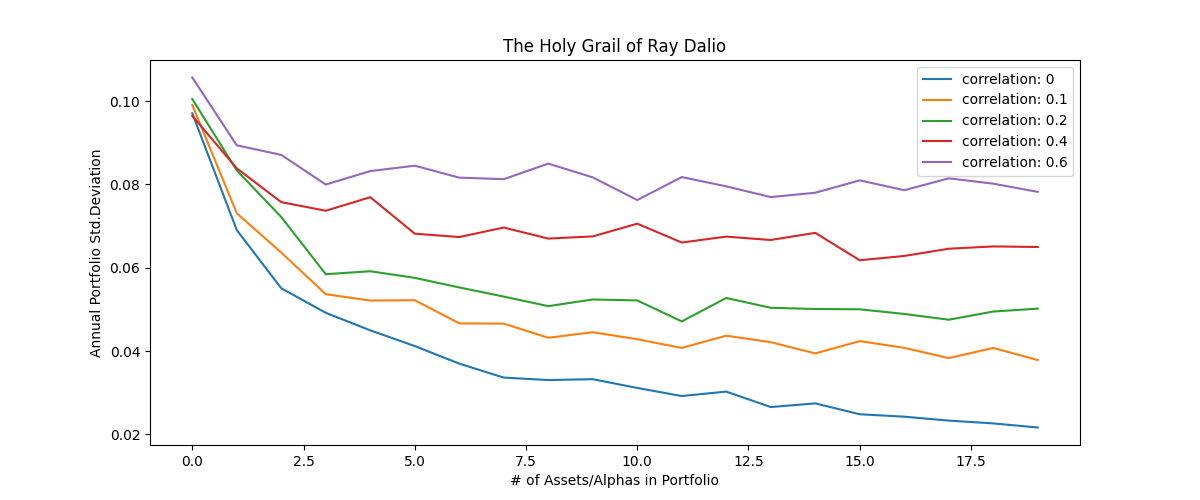
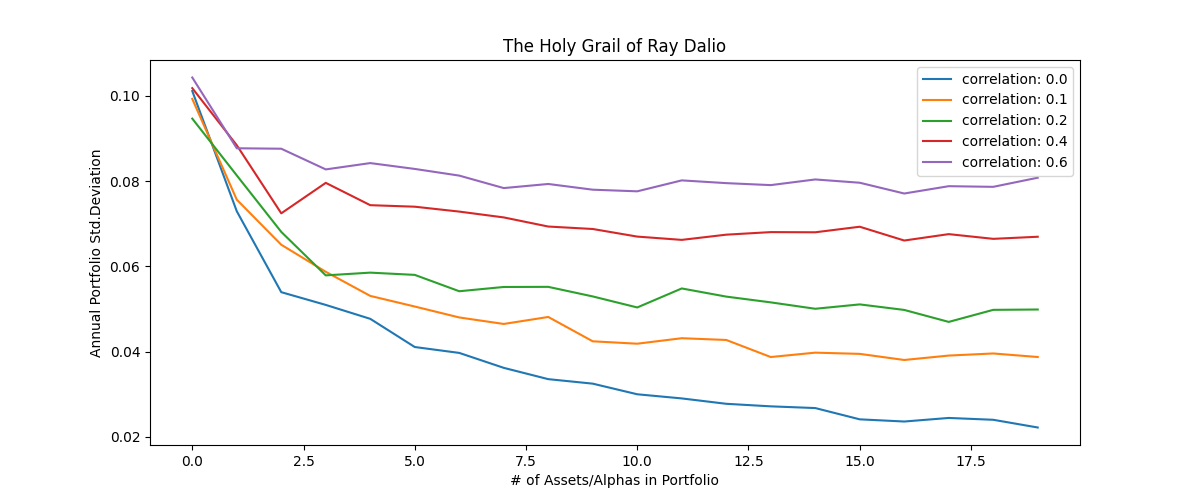
<training> version 2 of simulator

diff --git a/simulator.py b/simulator.py
@@ -14,29 +14,35 @@ def corr2cov(p: np.ndarray, s: np.ndarray) -> np.ndarray:
     return d @ p @ d
 
 
-def plotter(dataframe, show_chart=True):
-    plt.figure(figsize=(12, 5))
+def plotter(dataframe, risk=0.1, n_assets=21, show_chart=True):
+    plt.figure(figsize=(15, 5))
     plt.plot(dataframe)
     plt.title("The Holy Grail of Ray Dalio")
     plt.legend(dataframe.columns)
     plt.xlabel("# of Assets/Alphas in Portfolio")
     plt.ylabel("Annual Portfolio Std.Deviation")
+    plt.xticks(list(range(0, n_assets-1)))
+    #plt.yticks(np.arange(risk, 0, -0.1))
+    print(f"showchart: {show_chart}")
     if show_chart:
         plt.show()
     else:
         plt.savefig("simulator-holy-grail-result.png")
 
+def build_fraction_list(correlations):
+    divisor = 100
+    return [(corr/divisor) for corr in correlations]
 
-def simulator():
-    print(f"Simulator of Ray Dalio 'Holy Grail' built by: {AUTHOR}")
+
+def transform_input_correlations(correlations_str):
+    return [int(item) for item in correlations_str.split(",")]
+
+
+def simulator(correlations, param_risk=.10):
+    param_means = param_stddev = param_risk
     df = pd.DataFrame()
-    mean_assets = .1
-    stddev_assets = .1
-
-    correlation_test_list = [
-        .60, .40, .20, .10, 0
-    ]
-    for correlation in correlation_test_list:
+    results = []
+    for correlation in build_fraction_list(correlations):
         result_list = []
         for num_assets in range(1, 21):
             corr_matrix = np.zeros((num_assets, num_assets), float)
@@ -44,9 +50,9 @@ def simulator():
             np.fill_diagonal(corr_matrix, 1)
 
             stddev = np.empty(num_assets, dtype='float')
-            stddev.fill(stddev_assets)
+            stddev.fill(param_stddev)
             mean = np.empty(num_assets, dtype='float')
-            mean.fill(mean_assets)
+            mean.fill(param_means)
 
             cov = corr2cov(corr_matrix, stddev)
 
@@ -60,9 +66,12 @@ def simulator():
             portfolio_risk = np.std(portfolio_returns)
 
             result_list.append(portfolio_risk)
-            print(f"c: {correlation}"
-                  f"assets: {num_assets}"
-                  f"risk: {portfolio_risk:.5f}")
+            result = {
+                "assets": num_assets,
+                "correlation": correlation,
+                "risk": portfolio_risk
+            }
+            results.append(result)
 
         df.insert(0, 'correlation: ' + str(correlation), result_list, True)
     return df
@@ -70,10 +79,14 @@ def simulator():
 
 @click.command("simulator")
 @click.option("--savefigure", default=False)
-def cmd_simulator(savefigure):
-    result_df = simulator()
-    print(result_df.tail())
-    plotter(result_df, show_chart=savefigure)
+@click.option("--correlations", default="60,40,20,10,0")
+@click.option("--risk", default=10)
+def cmd_simulator(savefigure, correlations, risk):
+    print(f"Simulator of Ray Dalio 'Holy Grail' built by: {AUTHOR}")
+    result_df = simulator(transform_input_correlations(correlations),
+                          param_risk=float(risk)/100)
+    #print(result_df.tail())
+    plotter(result_df, show_chart=(not savefigure))
 
 
 if __name__ == "__main__":

diff --git a/test_simulator.py b/test_simulator.py
@@ -1,0 +1,12 @@
+from simulator import build_fraction_list, transform_input_correlations
+
+
+def test_build_correlation_list_1():
+    assert build_fraction_list([20, 40]) == [.2, .4]
+
+def test_build_correlation_list_with_zero():
+    assert build_fraction_list([20, 40, 0]) == [.2, .4, 0]
+
+def test_input_correlations():
+    assert transform_input_correlations("10,20") == [10, 20]
+    assert transform_input_correlations("10,50") == [10, 50]

diff --git a/README.md b/README.md
@@ -3,12 +3,22 @@
 ### Exppected Outcomes:
 * Build a simulator to simulate the holy grail strategy of Ray Dalio, described on this video https://youtu.be/Nu4lHaSh7D4
 
+### install
+```
+pip install -r requirements.txt
+```
+
 ### usage:
 ```
 python simulator.py --savefigure False
+# specific correlation list
+python simulator.py --correlations 10,20,30,40,50,60
+
+# specific correlation list and risk
+python simulator.py --correlations 10,20,30,40,50,60 --risk 20
 ```
 
-### result:
+### Example of results:
 ![simulator-result](simulator-holy-grail-result.png)
 
 
